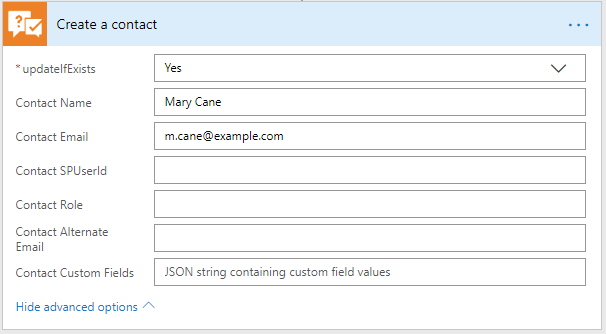
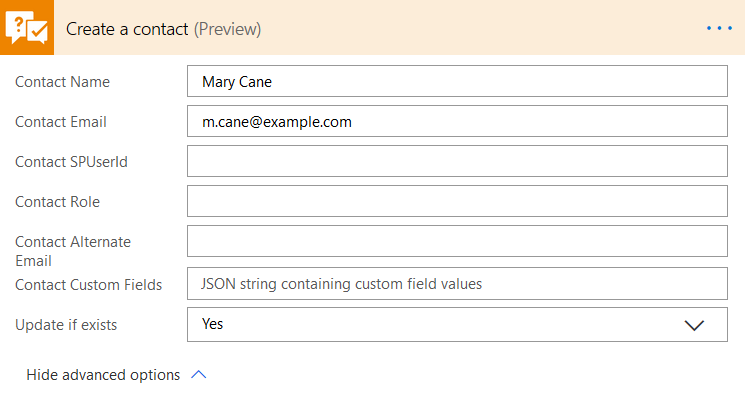
"Create a contact" action is actualized

diff --git a/Online/API/flow-actions.rst b/Online/API/flow-actions.rst
@@ -726,20 +726,17 @@ Creates new contact and returns it.
     *  -  Parameter
        -  Description
        -  Example
-    *  -  updateIfExists
-       -  If contact with specified email already exists and updateIfExists parameter is set to Yes, contact information will be updated
-       -  Yes
     *  -  Contact Name
        -  Full name of the contact
        -  Mary Cane
     *  -  Contact Email
-       -  Email of the contact
+       -  HelpDesk checks Email from this field and if it founds an SPUser with one, it will create a contact with "Member" role by default. Otherwise, it creates "End-User" one
        -  m.cane@example.com
     *  -  Contact SPUserId
-       -  You can provide SPUser ID instead of contact email, if you want to create Agent or Member
+       -  You can provide SPUser ID instead of contact email, if you want to create Agent or Member. The field is not mandatory
        -  15
     *  -  Contact Role
-       -  Role of the contact  in HelpDesk
+       -  Role of the contact in HelpDesk. The field is not mandatory
        -  En-User, Member or Agent
     *  -  Contact Alterate Email
        -  Alterate email address for the contact
@@ -751,7 +748,11 @@ Creates new contact and returns it.
             {
                 "Location": "USA",
                 "PhoneNumber": "(123)123-1234"
-            }  
+            }
+            
+    *  -  Update if exists
+       -  If contact with specified email already exists and "Update if exists" parameter is set to "Yes", contact information will be updated
+       -  Yes
 
 .. rubric:: Example
 
